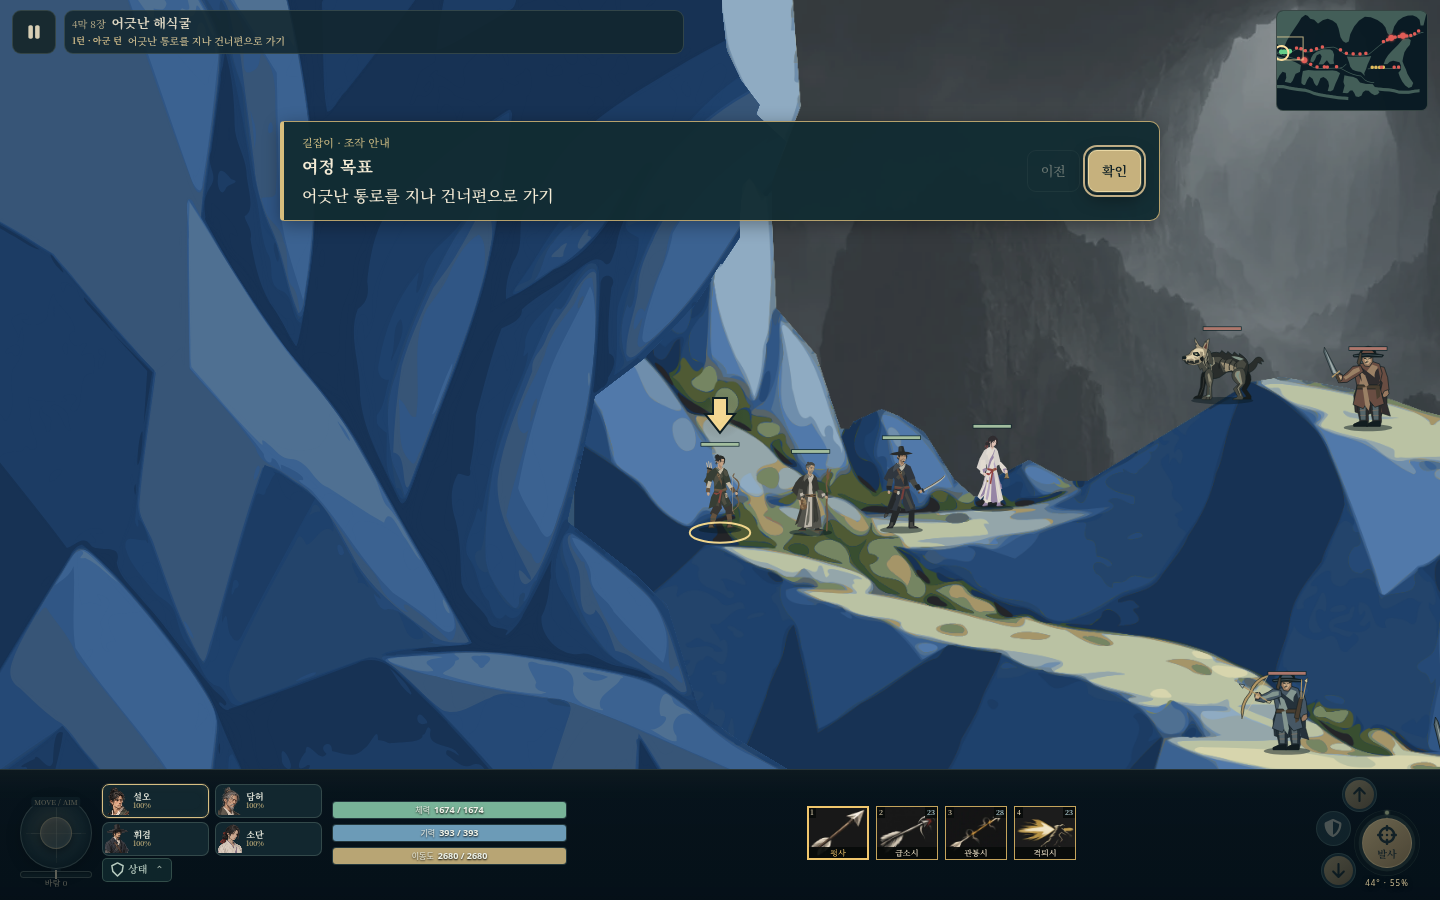
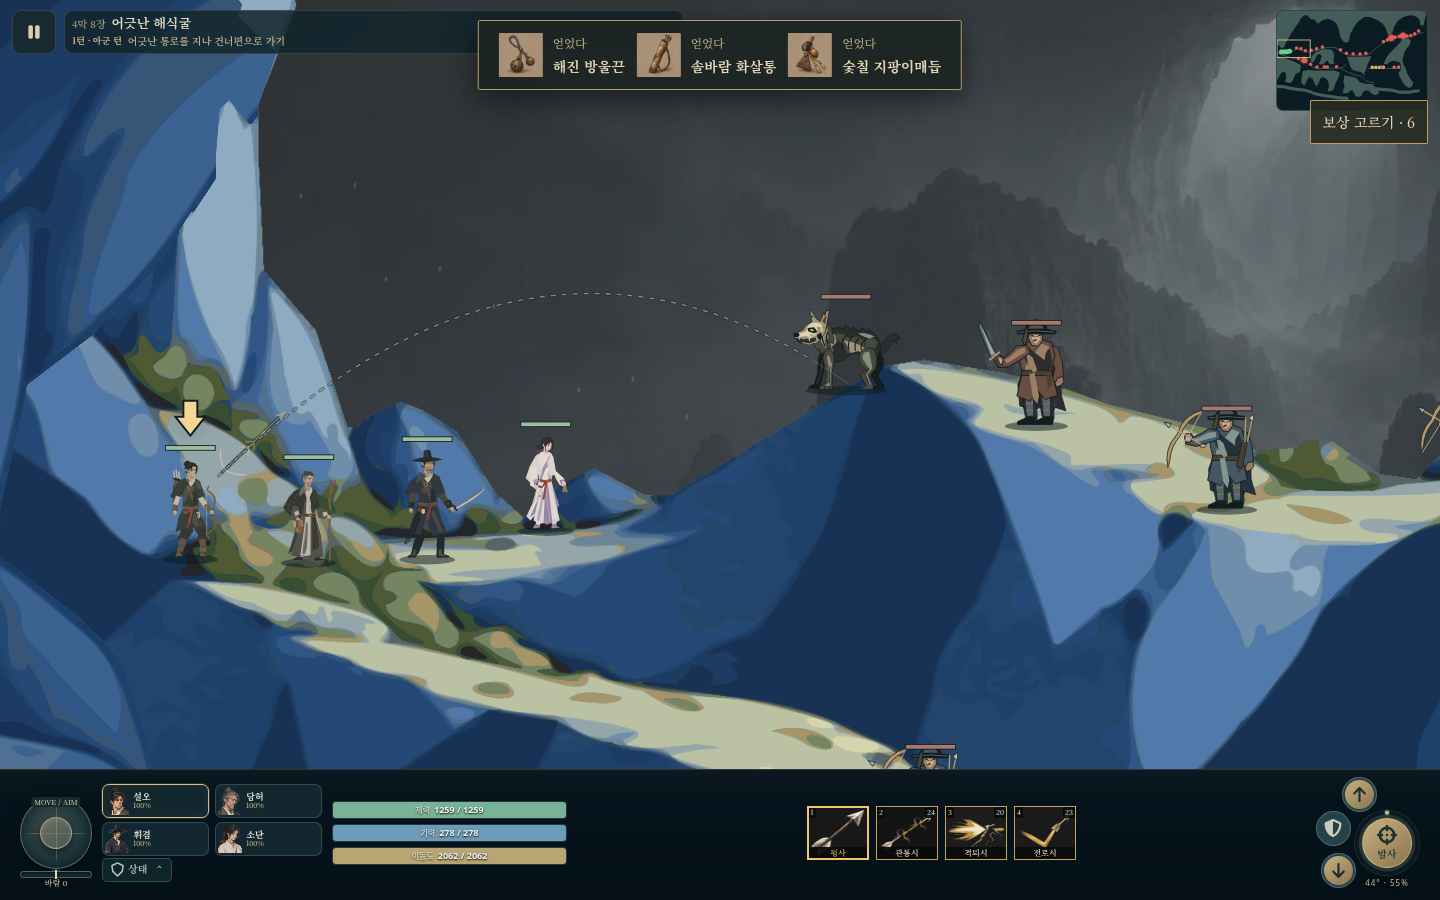
Capture stage 38 initial encounter after instructions

diff --git a/tools/act4-rc/evidence-38-40/README.md b/tools/act4-rc/evidence-38-40/README.md
@@ -1,6 +1,6 @@
 # Stage 38 and 40 RC entry inspection, 2026-10-31
 
-**Status: entry inspection only; gameplay, art acceptance, and release remain pending.** No normal completion or 20-turn result is established here. The screenshots show the initial tutorial overlay and visible initial placement, not the complete enemy deployment or required event scenes.
+**Status: entry inspection only; gameplay, art acceptance, and release remain pending.** No normal completion or 20-turn result is established here. The stage 38 screenshot shows the declared 37-cleared trial profile after opening instructions; stage 40 shows the initial tutorial overlay. Neither shows the complete enemy deployment or required event scenes.
 
 - Execution source: `2577ef15e1c9b81fbb824ffd68f3f265ca9086b2`; auxiliary candidate source `a5c521b384ef9086194cfaafcf36291f06e05569`.
[1 lines of base64/hex data omitted]
